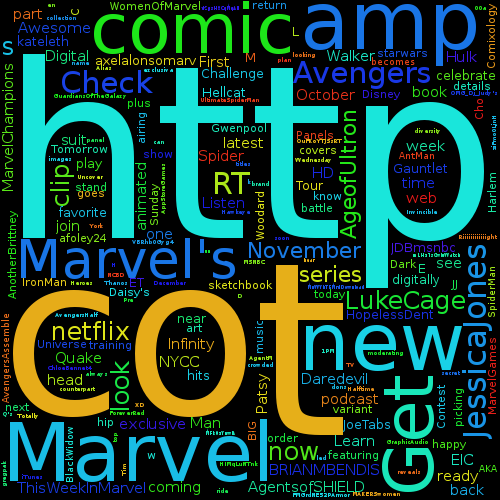
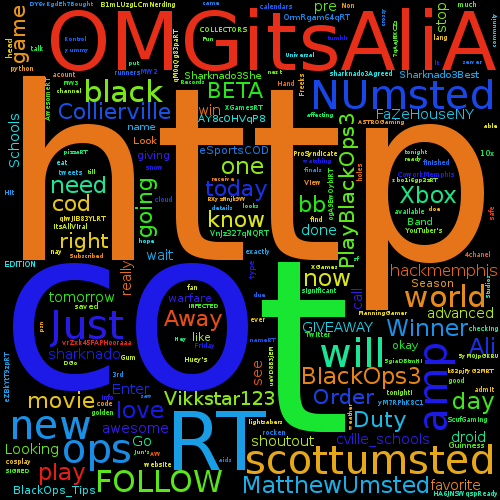
lesson 5 task 1

diff --git a/lesson5-misc/task1_dict.html b/lesson5-misc/task1_dict.html
@@ -1,0 +1,133 @@
+<html>
+<h3>Dictionary</h3>
+<br/>
+A Python dictionary is data structure that lets the programmer map a key to a value.
+Just like with a real dictionary, you define a set of terms. Each term has a single definition.
+Terms or keys may be any data type, such as a string, int, or number. Definitions or values may be any type or object.
+<br/>
+For example, take the following defined terms.
+<br/>
+
+    cow - four legged bovine, vegan, sometimes spotted
+    cat - four legged feline, omnivore, usually furry, meows alot
+    bird - winged creature, noisy, tweets constantly
+
+<br/>
+A Python dictionary version of these terms will look something like this.
+<br/>
+<pre>
+    animals = {
+        'cow': 'four legged bovine, vegan, sometimes spotted',
+        'cat': 'four legged feline, omnivore, usually furry, meows alot',
+        'bird': 'winged creature, noisy, tweets constantly'
+    }
+
+    >>> print(animals)
+    {'cat': 'four legged feline, omnivore, usually furry, meows alot', 'cow': 'four legged bovine, vegan, sometimes spotted', 'bird': 'winged creature, noisy, tweets constantly'}
+</pre>
+<br/>
+To find the definition or value of a particular term or key, you may reference the key using the square brackets.
+This looks similar to the way we referenced items in a list or letters in a string. To find the value of 'cow' we
+reference 'cow' in animals.
+<br/>
+
+<pre>
+    >>> animals['cow']
+
+    four legged bovine, vegan, sometimes spotted
+</pre>
+
+<br/>
+If we pass in a key that doesn't exist in a dictionary we see a KeyError.
+<br/>
+
+<pre>
+    >>> animals['dog']
+
+    Traceback (most recent call last):
+        globals = debugger.run(setup['file'], None, None, is_module)
+      File "/Applications/PyCharm Edu.app/Contents/helpers/pydev/pydevd.py", line 1771, in run
+        pydev_imports.execfile(file, globals, locals)  # execute the script
+      File "/Applications/PyCharm Edu.app/Contents/helpers/pydev/_pydev_imps/_pydev_execfile.py", line 18, in execfile
+        exec(compile(contents+"\n", file, 'exec'), glob, loc)
+        print(animals['dog'])
+    KeyError: 'dog'
+</pre>
+
+<br/>
+We can create dictionaries as we did above with animals. We might also want to create an empty dictionary and add
+values to it throughout our program.
+<br/>
+
+<pre>
+    >>> animals = {}
+
+    >>> animals['dog'] = 'not a cat, a cow, or a bird, barks a lot'
+
+    >>> animals['dog']
+
+    'not a cat, a cow, or a bird, barks a lot'
+</pre>
+
+<br/>
+Using an if statement and a comparison we can check to see if a key exists in a dictionary.
+<br/>
+
+<pre>
+    animals = {}
+
+    animals['dog'] = 'not a cat, a cow, or a bird, barks a lot'
+
+    if 'cat' in animals:
+        print('cat -', animals['cat'])
+    else:
+        print('no cat for us')
+
+    if 'dog' in animals:
+        print('dog -', animals['dog'])
+    else:
+        print('no dog for us')
+
+    no cat for us
+    dog - not a cat, a cow, or a bird, barks a lot
+</pre>
+
+<br/>
+Finally, we can iterate or loop through dictionaries. Unlike lists, dictionaries are not sorted in any particular order.
+They are mainly intended to be used with keys.
+<br/>
+
+<pre>
+    animals = {
+        'cow': 'four legged bovine, vegan, sometimes spotted',
+        'cat': 'four legged feline, omnivore, usually furry, meows alot',
+        'bird': 'winged creature, noisy, tweets constantly'
+    }
+
+    for k, v in animals.items():
+        print(k,' - ',v)
+        if k == 'cat':
+            print('meow')
+
+    cat  -  four legged feline, omnivore, usually furry, meows alot
+    meow
+    bird  -  winged creature, noisy, tweets constantly
+    cow  -  four legged bovine, vegan, sometimes spotted
+</pre>
+
+<br/>
+If you do need to sort a dictionary you may use the sorted() function.
+<br/>
+
+<pre>
+    for k, v in sorted(animals.items()):
+        print(k,' - ',v)
+        if k == 'cat':
+            print('meow')
+
+    bird  -  winged creature, noisy, tweets constantly
+    cat  -  four legged feline, omnivore, usually furry, meows alot
+    meow
+    cow  -  four legged bovine, vegan, sometimes spotted
+</pre>
+</html>

diff --git a/lesson5-misc/task2_modules.html b/lesson5-misc/task2_modules.html
@@ -1,0 +1,10 @@
+<!DOCTYPE html>
+<html lang="en">
+<head>
+    <meta charset="UTF-8">
+    <title></title>
+</head>
+<body>
+
+</body>
+</html>

diff --git a/lesson5-misc/task3_exercise.html b/lesson5-misc/task3_exercise.html
@@ -1,0 +1,10 @@
+<!DOCTYPE html>
+<html lang="en">
+<head>
+    <meta charset="UTF-8">
+    <title></title>
+</head>
+<body>
+
+</body>
+</html>

diff --git a/lesson5-misc/task1_dict.py b/lesson5-misc/task1_dict.py
@@ -1,0 +1,21 @@
+# create a dictionary of your favorite movies
+
+movies = {'':''}
+
+print(movies)
+
+# create an empty dictionary of fruits add items to it
+
+#print(fruits)
+
+# pick a key and print out a item from one of your dictionaries
+
+movies['']
+
+# use an if statement to check for a key in your dictionary
+
+if 'item' in movies:
+    pass
+
+# use a for loop to iterate through your dictionary
+

diff --git a/lesson2-control/task2_blocks.py b/lesson2-control/task2_blocks.py
@@ -3,10 +3,12 @@
 # block
 a_number = 3
 another_number = 4 * a_number
+
 if another_number > 3:
-    # block
+
     a_third_number = 4
     a_fourth_number = another_number + a_third_number
-    if a_fourth_number > 4:
-        # block
+
+    if a_fourth_number < 4:
+
         print('Yeah!')

diff --git a/lesson4-wordcloud/task3_cloud.py b/lesson4-wordcloud/task3_cloud.py
@@ -54,7 +54,7 @@ def download_tweets(username):
 
 
 def genWordCloud(filename):
-    text = download_tweets('marvel')
+    text = download_tweets('numsted')
 
     words = WordCloud(width=500, height=500,
                       font_path='./DejaVuSans.ttf',

diff --git a/lesson4-wordcloud/task2_post.py b/lesson4-wordcloud/task2_post.py
@@ -16,4 +16,4 @@ auth.set_access_token(access_token, access_token_secret)
 
 api = tweepy.API(auth)
 
-api.update_status(status="Learing python at Memphis Chinese School!")
+api.update_status(status="Learning python at Memphis Chinese School!")

diff --git a/lesson2-control/task1_comments.py b/lesson2-control/task1_comments.py
@@ -1,1 +1,8 @@
 # practice creating a docstring and a line comment
+
+'''
+hi
+my name is
+scott
+'''
+print('hi')
